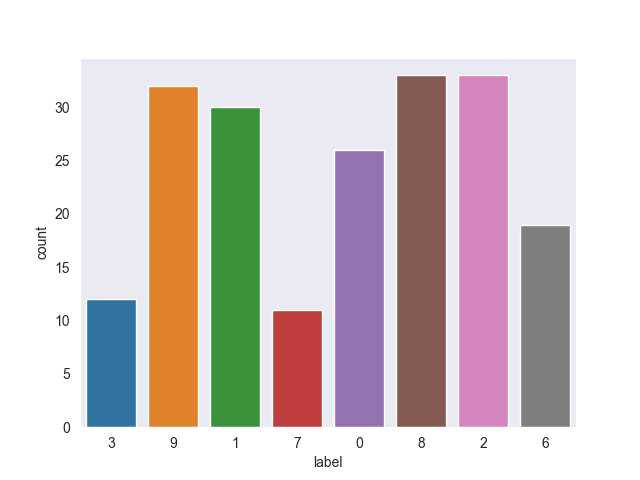
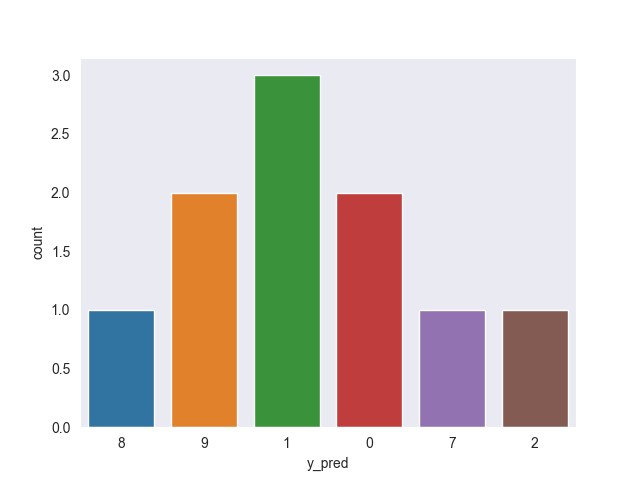
création de la BDD 2 tables

diff --git a/Application/bdd_2_tables.py b/Application/bdd_2_tables.py
@@ -1,0 +1,108 @@
+
+# Import des librairies.
+from sqlalchemy import create_engine
+from sqlalchemy import inspect
+import streamlit as st
+import numpy as np
+import pymysql
+import pandas as pd
+import pickle
+
+# Import des utilitaires pour le modèle.
+import tensorflow as tf
+from tensorflow import keras
+
+# =========================== Utilitaires ====================================>
+
+# Import de la data.
+x_train = pd.read_csv("C:/Users/Chems Ounissi/Desktop/CNN_projet/data/train.csv")
+x_test  = pd.read_csv("C:/Users/Chems Ounissi/Desktop/CNN_projet\data/test.csv")
+
+# connexion à la base de données.
+conn=pymysql.connect(host='localhost', port=int(3306), user='root', passwd='', db='neuronal_convolutif')
+
+# importation du modèle 
+model = tf.keras.models.load_model("C:/Users/Chems Ounissi/Desktop/CNN_projet/my_model2.h5")
+
+
+# =========================== Les fonctions ====================================>
+
+# Fonction permettent de créer 2 tables.
+def create_tables_2_tables(name_bdd: str):
+    
+    # Connexion à la base de données
+    conn = pymysql.connect(host='localhost', port=3306, user='root', passwd='', db=name_bdd)
+    cursor = conn.cursor()
+
+    # Création de la table "images" avec 784 colonnes pour les features
+    col_names = ['feature_' + str(i) for i in range(784)]
+    col_names_str = ','.join([f'{name} REAL' for name in col_names])
+    cursor.execute(f'''CREATE TABLE IF NOT EXISTS images
+                (id INTEGER NOT NULL AUTO_INCREMENT PRIMARY KEY, {col_names_str})''')
+    print("Table 'images' créée avec succès.")
+
+    # Création de la table "predictions" avec les colonnes "y_true" et "y_pred"
+    cursor.execute('''CREATE TABLE IF NOT EXISTS predictions
+                (id int NOT NULL DEFAULT 0,
+                y_true TEXT,
+                y_pred TEXT,
+                image_id INTEGER,
+                FOREIGN KEY (image_id) REFERENCES images(id))''')
+    print("Table 'predictions' créée avec succès.")
+
+    # Fermeture de la connexion à la base de données
+    conn.commit()
+    conn.close()
+
+
+# Fonction permettent d'enregistrer les données dans 2 tables.
+def send_sql_table_2_tables(index:int, test=x_test, model=model):
+
+    # connexion à la bdd
+    conn=pymysql.connect(host='localhost', port=int(3306), user='root', passwd='', db='neuronal_convolutif')
+    
+    # sélection de l'image
+    test  = np.array(test)
+    features = test[index]
+    cursor = conn.cursor()
+    
+    # on réalise la prédiction
+    prediction = model.predict(((features).reshape((-1,28,28,1)))/255.0)
+    prediction = np.argmax(prediction, axis=1)
+    
+    # Vérifier si l'ID existe déjà dans la table 'images'
+    cursor.execute("SELECT id FROM images WHERE id=%s", (index,))
+    result = cursor.fetchone()
+    
+    # Si l'id n'est pas présent, on envoie les données dans la BDD.
+    if result is None:
+        
+        # Mise en place des colonnes et valeur à insérer.
+        columns_table=[]
+        for i in range(len(features)):
+            columns_table.append(f"feature_{i}")
+        columns_table.insert(0, "id")
+        
+        values_table=[]
+        for i in features:
+            values_table.append(str(i))
+        values_table.insert(0, str(index))
+        
+        # Insertion des features dans la table images
+        sql = f"INSERT INTO images ({', '.join(columns_table)}) VALUES ({', '.join(['%s' for i in range(785)])})"
+        cursor.execute(sql, values_table)
+        
+        # Insertion des résultats dans la table predictions.
+        columns_table = ["y_true", "y_pred", "image_id"]
+        values_table = ["NaN", str(prediction.item()), str(index)]
+        sql = f"INSERT INTO predictions ({', '.join(columns_table)}) VALUES ({', '.join(['%s' for i in range(3)])})"
+        cursor.execute(sql, values_table)
+        
+        conn.commit()
+        conn.close()
+    else:
+        pass
+    return prediction
+
+
+

diff --git a/Application/librairie.py b/Application/librairie.py
@@ -10,8 +10,8 @@ import pickle
 
 # Import des utilitaires pour le modèle.
 import tensorflow as tf
-import random
 from tensorflow import keras
+from bdd_2_tables import send_sql_table_2_tables
 
 
 
@@ -133,7 +133,7 @@ def column_picture():
             # st.write(f"image id : {i}")
             
             if st.button("prédire", key=i):
-                pred = send_sql_table(index=i)
+                pred = send_sql_table_2_tables(index=i)
                 finish=True
                 
     with col2:
@@ -142,7 +142,7 @@ def column_picture():
             # st.write(f"image id : {i}")
             
             if st.button("prédire", key=i):
-                pred = send_sql_table(index=i)
+                pred = send_sql_table_2_tables(index=i)
                 finish=True
     
     with col3:
@@ -151,7 +151,7 @@ def column_picture():
             # st.write(f"image id : {i}")
             
             if st.button("prédire", key=i):
-                pred = send_sql_table(index=i)
+                pred = send_sql_table_2_tables(index=i)
                 finish=True
     
     # Affichage du résultat.
@@ -163,14 +163,13 @@ def column_picture():
 # =============================================================================
 
 # Fonction permettent de supprimer le contenu d'une table
-def delete_table():
+def delete_table(table):
     conn=pymysql.connect(host='localhost', port=int(3306), user='root', passwd='', db='neuronal_convolutif')
     cursor = conn.cursor()
-    delete_query = "DELETE FROM picture_predict;"
+    delete_query = f"DELETE FROM {table};"
     cursor.execute(delete_query)
     conn.commit()
     cursor.close()
     conn.close()
     
 # =============================================================================
-

diff --git a/Application/pages/data.py b/Application/pages/data.py
@@ -18,30 +18,24 @@ def page_bdd():
     
     # affichage du background + connexion à la base
     background(url="https://wallpaper.dog/large/10707630.jpg")
-    table=pd.read_sql_query("SELECT * FROM picture_predict ", conn)
+    table_images=pd.read_sql_query("SELECT * FROM images ", conn)
+    table_predictions=pd.read_sql_query("SELECT * FROM predictions ", conn)
     data=False
     
     # Si la table est vide, on envoie un message d'erreur.
-    if table.empty:
+    if table_images.empty or  table_predictions.empty:
         st.error("Base de données vide !")
     else:
-        st.write(table.head())
+        df_joined = table_predictions.merge(table_images, left_on='image_id', right_on='id')
+        df_joined = df_joined.drop(["id_x", "id_y"], axis=1)
+        st.write(df_joined.head())
         data=True
     
-    # Dimensions de notre Table.
-    st.markdown(f'**Dimensions de la table : { table.shape }**') 
-    
-    # supressionn de la table
-    if st.button("Supprimer les données"):
-        delete_table()
-
     # Affichage du nombre d'occurrences de chaque valeur
     st.header(f"Exploration des Prédictions")
-
-    # On affiche les graphpiques ou on renvoit l'utilisateur à la page prédiction.
     if data:
         sns.set_style('dark')
-        fig = sns.countplot(x='label', data=table)
+        fig = sns.countplot(x='y_pred', data=df_joined)
         fig = fig.get_figure()  
         fig.savefig('countplot.png')  
         st.image('countplot.png')  
@@ -49,4 +43,5 @@ def page_bdd():
         st.error("Visualisation non disponible.")
         
 page_bdd()
+
 

diff --git a/Application/Home.py b/Application/Home.py
@@ -1,6 +1,7 @@
 # Import des utilitaires.
 import streamlit as st 
 from librairie import create_table, background, column_picture
+from bdd_2_tables import create_tables_2_tables
 import numpy as np
 import random
 from PIL import Image
@@ -24,7 +25,7 @@ def main():
     background(url="https://wallpaper.dog/large/10707630.jpg")
     
     # Création de la table.
-    create_table(table_name="picture_predict", name_bdd="neuronal_convolutif")
+    create_tables_2_tables(name_bdd="neuronal_convolutif")
     
     # Accueil (titre & header).
     st.title("Réseau neuronal Convolutif")
